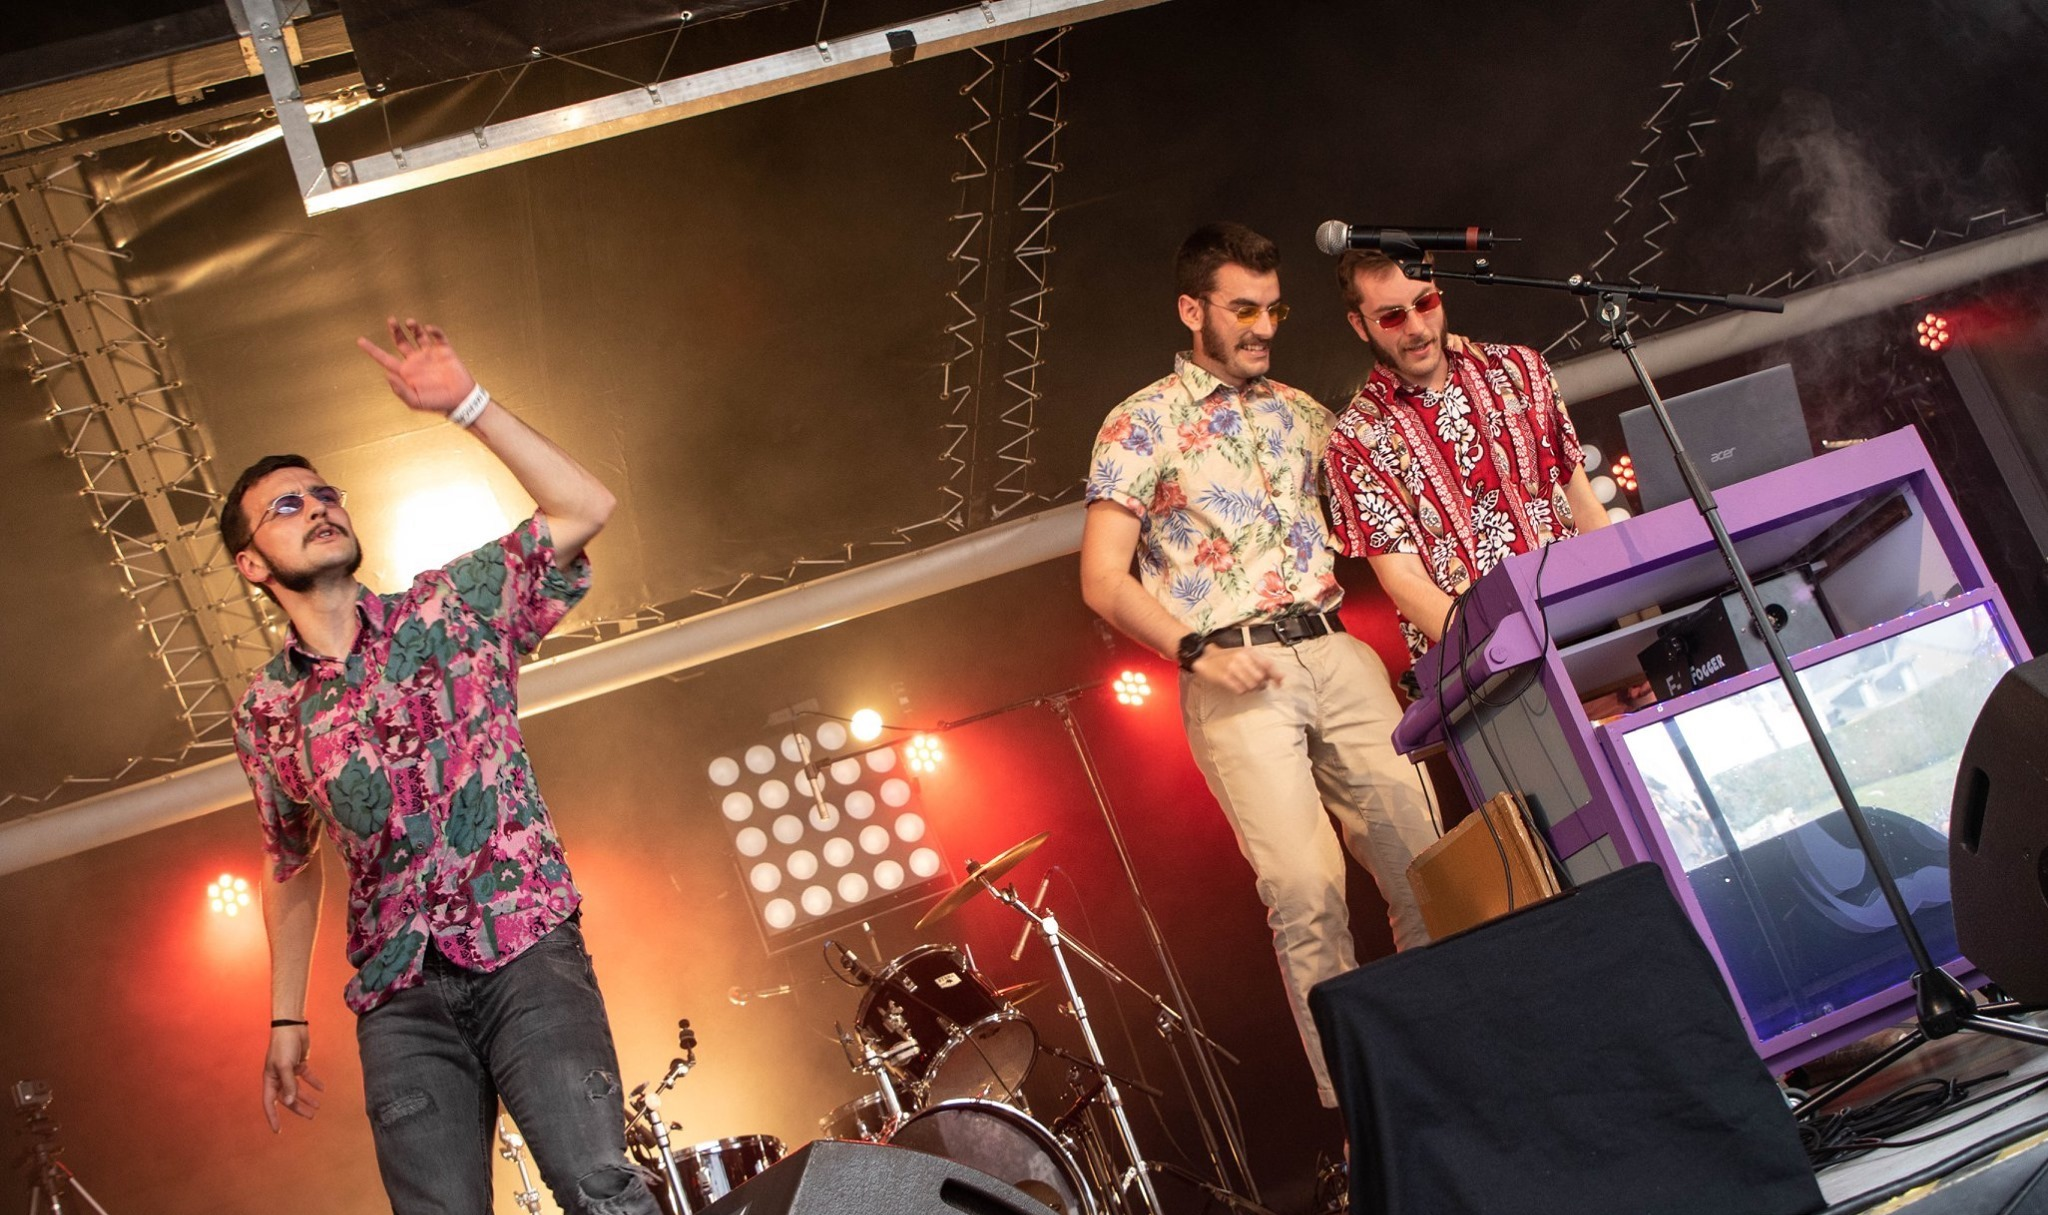
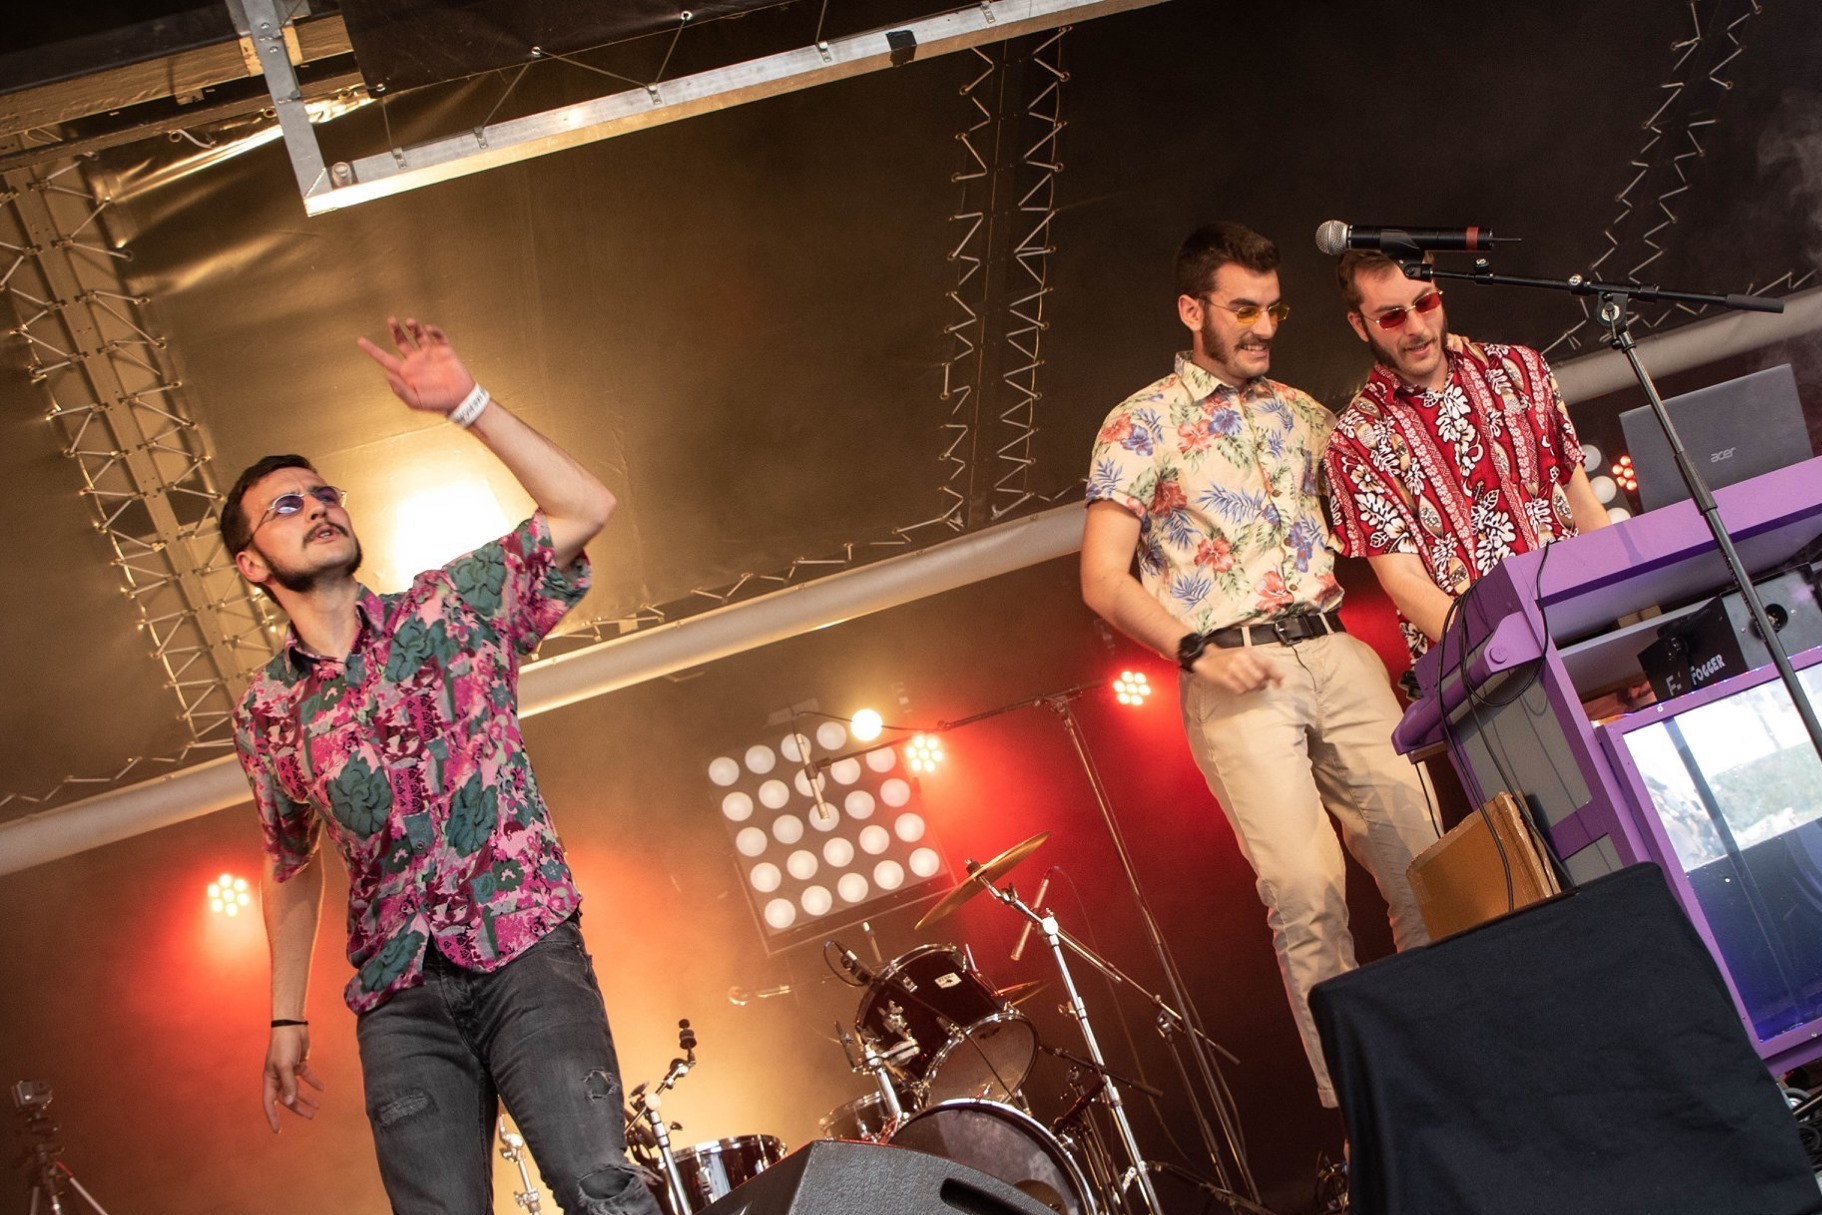
supression d'images inutil + redécoupage d'image pour qu'elles soient au bon format + box shadow bouton et image

diff --git a/src/components/buttons/button-music.vue b/src/components/buttons/button-music.vue
@@ -38,6 +38,7 @@ export default {
         max-height: 30px;
         padding: 8px 0px 8px 0px;
         border:1px transparent solid;
+        box-shadow: 0px 0px 15px rgba(0, 0, 0, 0.3);
         background-color:rgba(255, 255, 255, 0.15);
         border-radius: 10px;
         overflow:hidden;

diff --git a/src/components/content/template-text-image.vue b/src/components/content/template-text-image.vue
@@ -66,6 +66,7 @@
         width:100%;
         height:auto;
         border-radius:5px;
+        box-shadow: 0px 0px 20px rgba(0, 0, 0, 0.4);
     }
 
     #title{
